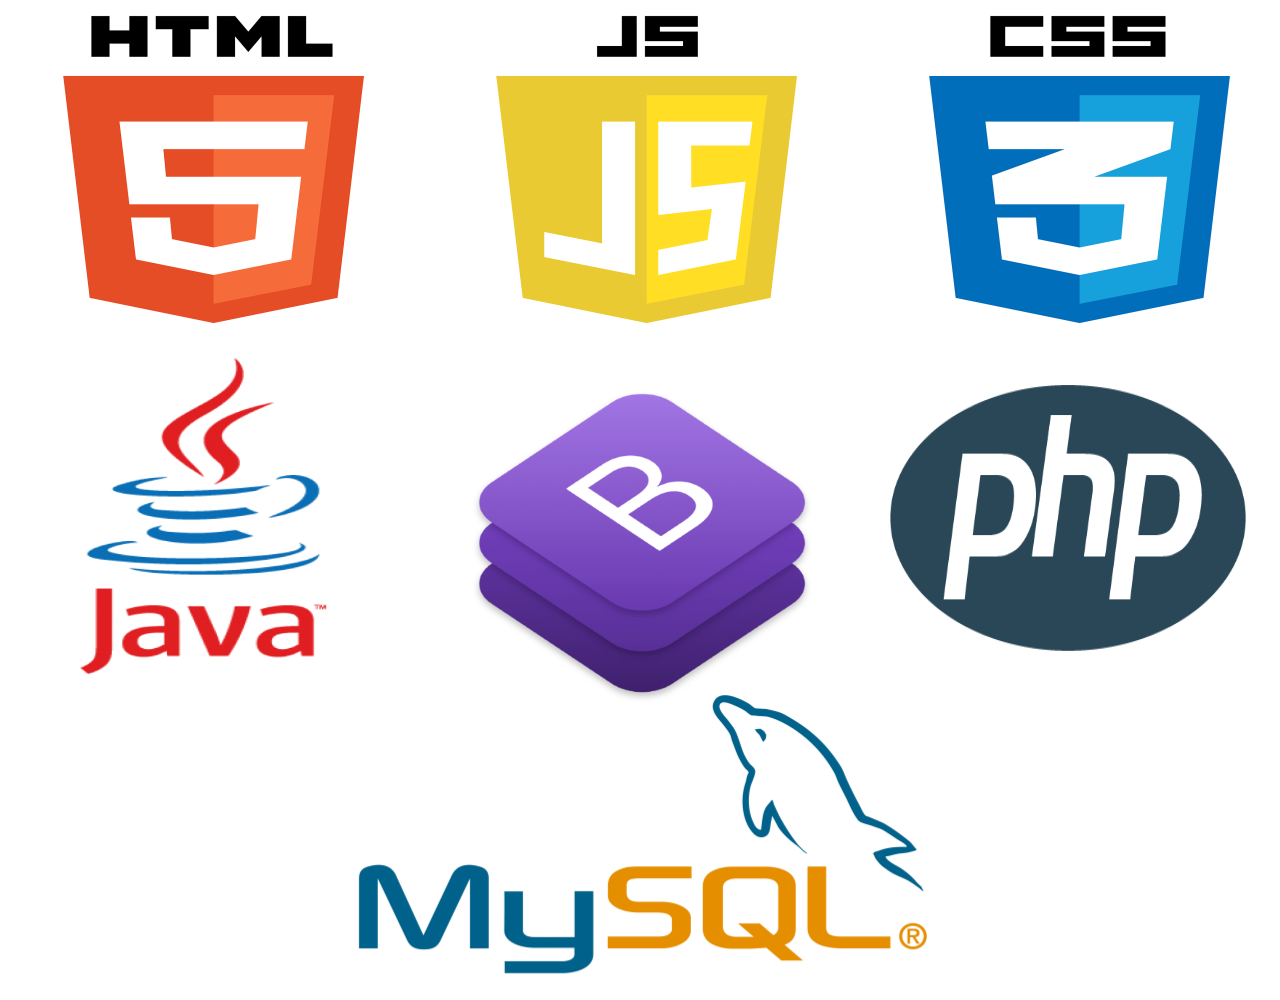
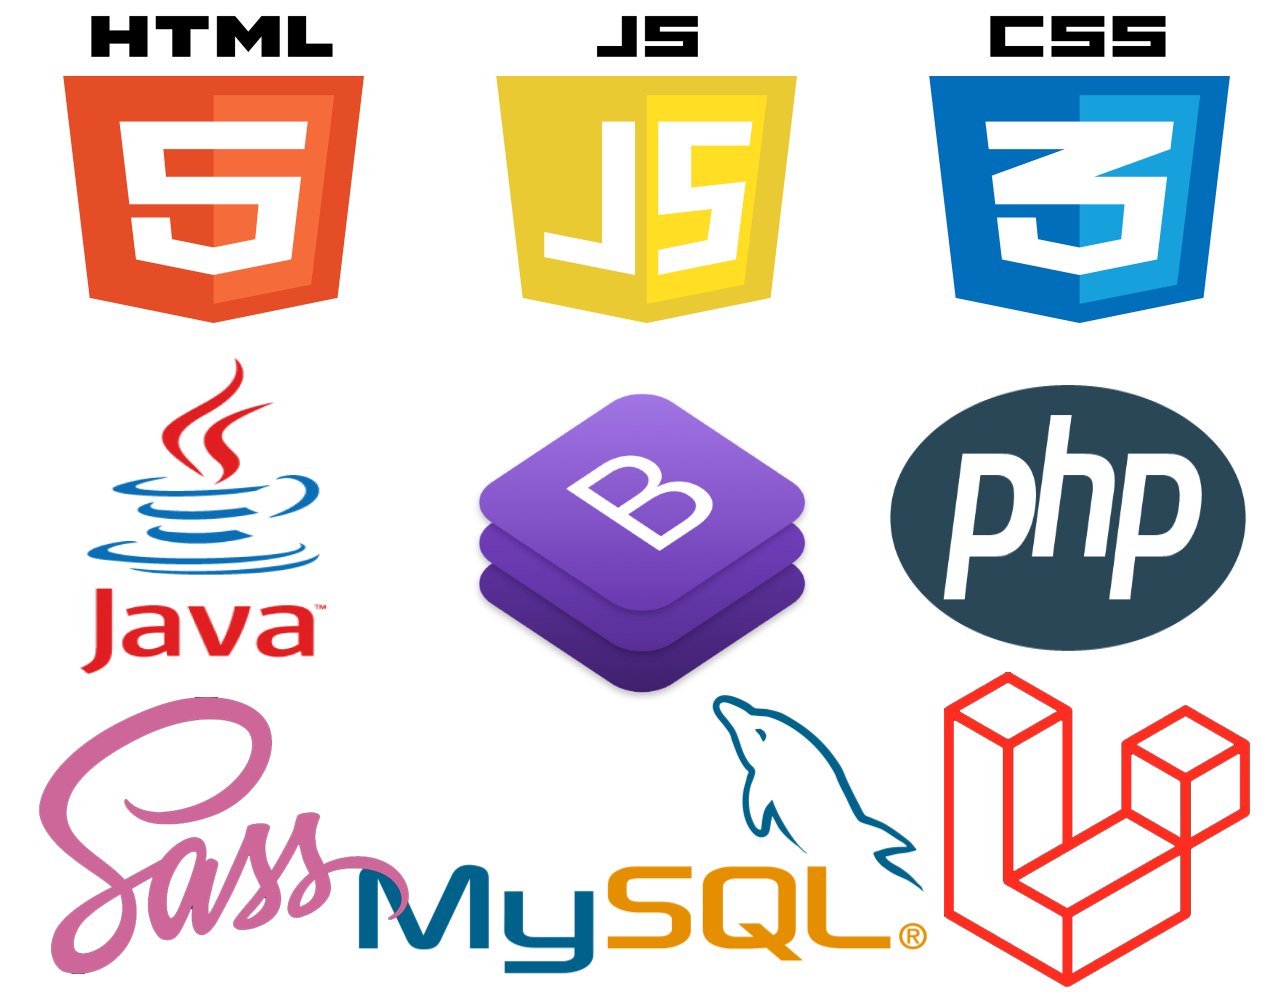
Atualizando

Changed region(s): [[0.7188, 0.651, 1.0, 0.992], [0.0312, 0.682, 0.3438, 0.992]]

diff --git a/index.html b/index.html
@@ -233,13 +233,16 @@
                             <button class="main-btn filter-btn active" id="all-btn">Todos</button>
                             <button class="main-btn filter-btn" id="dev-btn">Desenvolvimento</button>
                             <button class="main-btn filter-btn" id="uml-btn">Análise</button>
-                            <button class="main-btn filter-btn" id="seo-btn">SEO</button>
+                            <button class="main-btn filter-btn" id="design-btn">Design</button>
                         </div>
                         <div class="col-md-4 project-box dev" id="img">
-                            <a href="https://www.youtube.com/watch?v=zERrGObfTJM&t=12s" target="_blank"><img src="imagens/Facial-detector.jpg" title="Detecção facial com Java. Clique para ver a execução" class="img-fluid" alt="Detector facial"></a>
+                            <a href="https://www.youtube.com/watch?v=zERrGObfTJM&t=12s" target="_blank"><img src="imagens/webcamjava.png" title="Detecção facial com Java. Clique para ver a execução" class="img-fluid" alt="Detector facial"></a>
                         </div>
                         <div class="col-md-4 project-box dev" id="img">
-                            <a href="https://crudadrielphp.000webhostapp.com/" target="blank"><img src="imagens/phplogin.jpg" title="CRUD com PHP, clique para acessar o site" class="img-fluid" alt="Um CRUD com PHP por meio de login com criptografia"></a>
+                            <a href="https://www.youtube.com/watch?v=pGRH2z9JoAg" target="blank"><img src="imagens/EventosLaravelImage.png" title="Website de eventos com Laravel" class="img-fluid" alt="Website de eventos com Laravel"></a>
+                        </div>
+                        <div class="col-md-4 project-box design" id="img">
+                            <a href="https://adrielcavalcante.github.io/ChatWeb/" target="blank"><img src="imagens/chatweb.png" title="Design de um Webchat" class="img-fluid" alt="Design de um Webchat"></a>
                         </div>
                         <div class="col-md-4 project-box uml" id="img">
                             <img src="imagens/DER.jpg" title="Planejamento de Banco de dados SQL" class="img-fluid" alt="Um DER, para planejamento de banco de dados relacionais">
@@ -247,8 +250,9 @@
                         <div class="col-md-4 project-box uml" id="img">
                             <img src="imagens/UML-Classehotel.jpg" title="Planejamento de um sistema de hotelaria" class="img-fluid" alt="Diagrama de classes de uma rede de hotelaria">
                         </div>
-                        <div class="col-md-4 project-box seo" id="img">
-                            <img src="imagens/SEO.jpg" title="Organização de Tags para o melhor SEO" class="img-fluid" alt="Código bom para SEO">
+                        <div class="col-md-4 project-box design" id="img">
+                            <a href="https://github.com/AdrielCavalcante/GaleriaSASS" target="blank">
+                            <img src="imagens/GaleriaSite.png" title="Design de Website de conjuntos de imagens" class="img-fluid" alt="Design de Website de conjuntos de imagens"></a>
                         </div>
                     </div>
                 </div>

diff --git a/js/script.js b/js/script.js
@@ -7,13 +7,13 @@ $(document).ready(function(){
 
         color: '#64DAF9',
         strokeWidth: 8,
-        duration: 1200,
+        duration: 1800,
         from: { color: '#AAA' },
         to: { color: '#65DAF9' },
 
         step: function(state, circle) {
             circle.path.setAttribute('stroke', state.color);
-            let value = Math.round(circle.value() * 8);
+            let value = Math.round(circle.value() * 12);
 
             circle.setText(value);
         }
@@ -25,13 +25,13 @@ $(document).ready(function(){
 
         color: '#64DAF9',
         strokeWidth: 8,
-        duration: 800,
+        duration: 900,
         from: { color: '#AAA' },
         to: { color: '#65DAF9' },
 
         step: function(state, circle) {
             circle.path.setAttribute('stroke', state.color);
-            let value = Math.round(circle.value() * 2);
+            let value = Math.round(circle.value() * 3);
 
             circle.setText(value);
         }
@@ -43,13 +43,13 @@ $(document).ready(function(){
 
         color: '#64DAF9',
         strokeWidth: 8,
-        duration: 1200,
+        duration: 1300,
         from: { color: '#AAA' },
         to: { color: '#65DAF9' },
 
         step: function(state, circle) {
             circle.path.setAttribute('stroke', state.color);
-            let value = Math.round(circle.value() * 8);
+            let value = Math.round(circle.value() * 9);
 
             circle.setText(value);
         }
@@ -61,13 +61,13 @@ $(document).ready(function(){
 
         color: '#64DAF9',
         strokeWidth: 8,
-        duration: 2200,
+        duration: 2300,
         from: { color: '#AAA' },
         to: { color: '#65DAF9' },
 
         step: function(state, circle) {
             circle.path.setAttribute('stroke', state.color);
-            let value = Math.round(circle.value() * 212);
+            let value = Math.round(circle.value() * 247);
 
             circle.setText(value);
         }
@@ -116,8 +116,8 @@ $(document).ready(function(){
             EachBoxes('dev', boxes);
         } else if(type == 'uml-btn'){
             EachBoxes('uml', boxes);
-        } else if(type == 'seo-btn'){
-            EachBoxes('seo', boxes);
+        } else if(type == 'design-btn'){
+            EachBoxes('design', boxes);
         } else {
             EachBoxes('all', boxes);
         }
